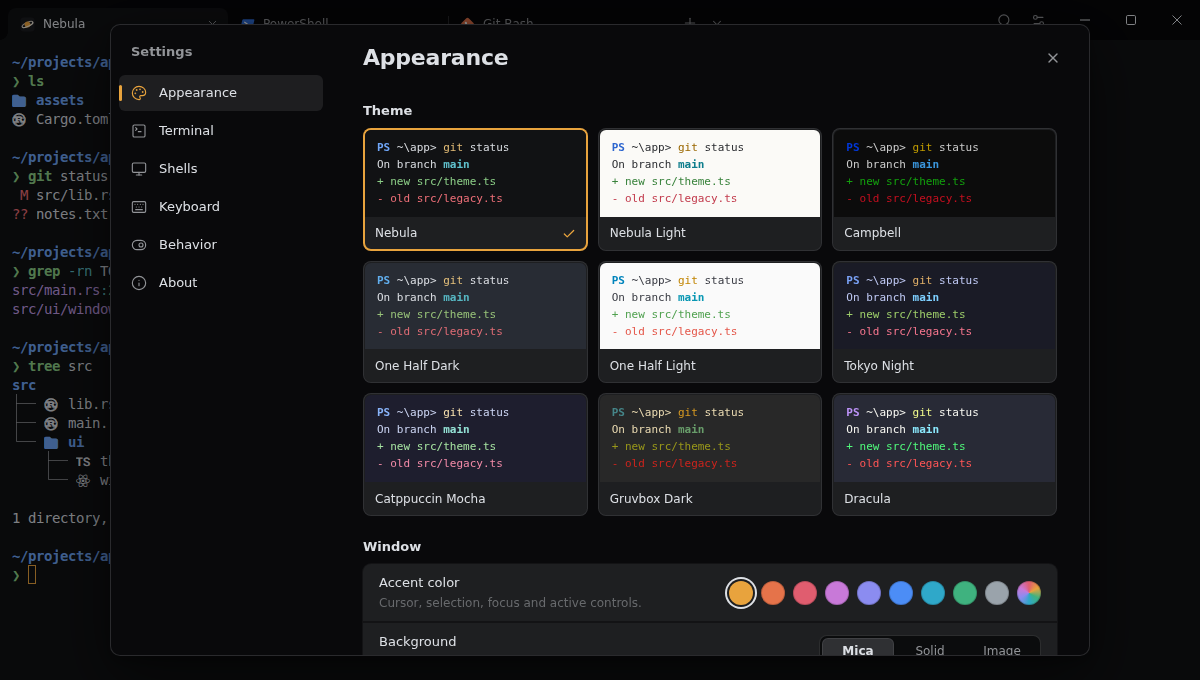
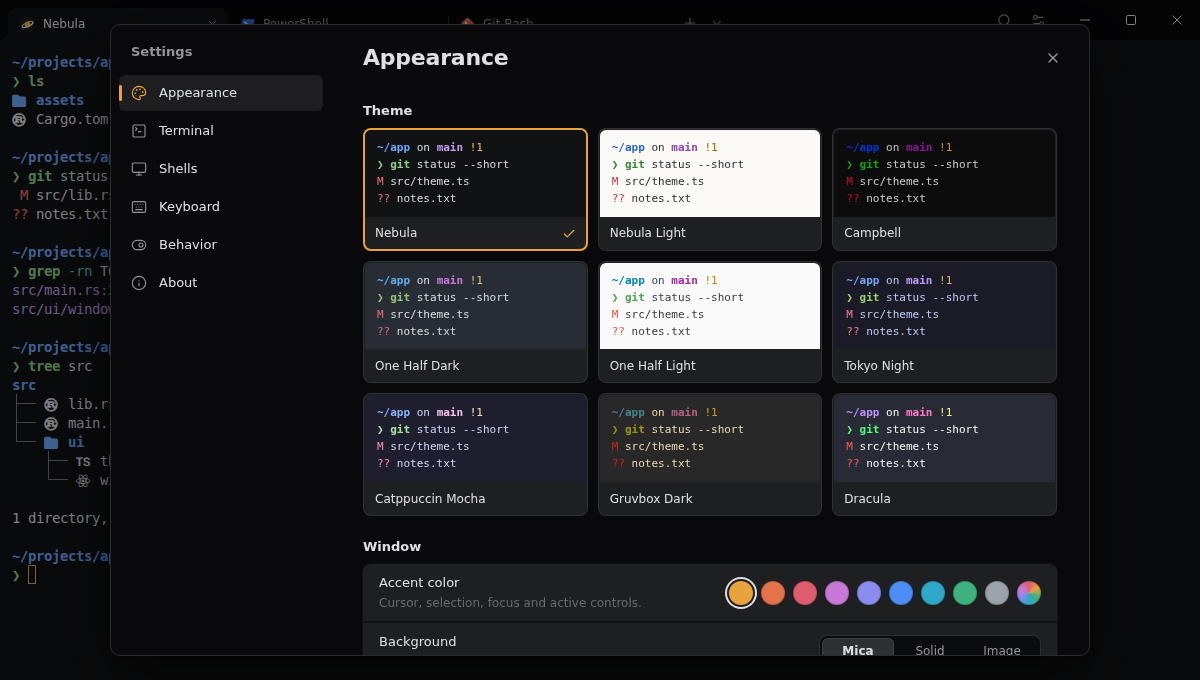
Update vite, lucide-react and jiff; show Nebula in theme previews
- vite 8.3.1, lucide-react 1.48.0 (every icon used still exists) and
  jiff 0.2.37, from the open Dependabot pull requests
- theme cards preview a Nebula prompt instead of PowerShell
- refresh the README screenshots

diff --git a/src/components/SettingsPanel.tsx b/src/components/SettingsPanel.tsx
@@ -109,13 +109,13 @@ function Slider({ value, min, max, step, onChange, format, label }: { value: num
 }
 
 function ThemePreview({ theme }: { theme: TerminalTheme }) {
-  const [, red, green, yellow, blue, , cyan] = theme.ansi;
+  const [, red, green, yellow, blue, magenta] = theme.ansi;
   return (
     <span className="theme-card__preview" style={{ background: theme.background, color: theme.foreground }} aria-hidden="true">
-      <span><b style={{ color: blue }}>PS</b> ~\app&gt; <span style={{ color: yellow }}>git</span> status</span>
-      <span>On branch <b style={{ color: cyan }}>main</b></span>
-      <span style={{ color: green }}>+ new  src/theme.ts</span>
-      <span style={{ color: red }}>- old  src/legacy.ts</span>
+      <span><b style={{ color: blue }}>~/app</b> on <b style={{ color: magenta }}>main</b> <span style={{ color: yellow }}>!1</span></span>
+      <span><b style={{ color: green }}>❯ git</b> status --short</span>
+      <span><span style={{ color: red }}> M</span> src/theme.ts</span>
+      <span><span style={{ color: red }}>??</span> notes.txt</span>
     </span>
   );
 }
